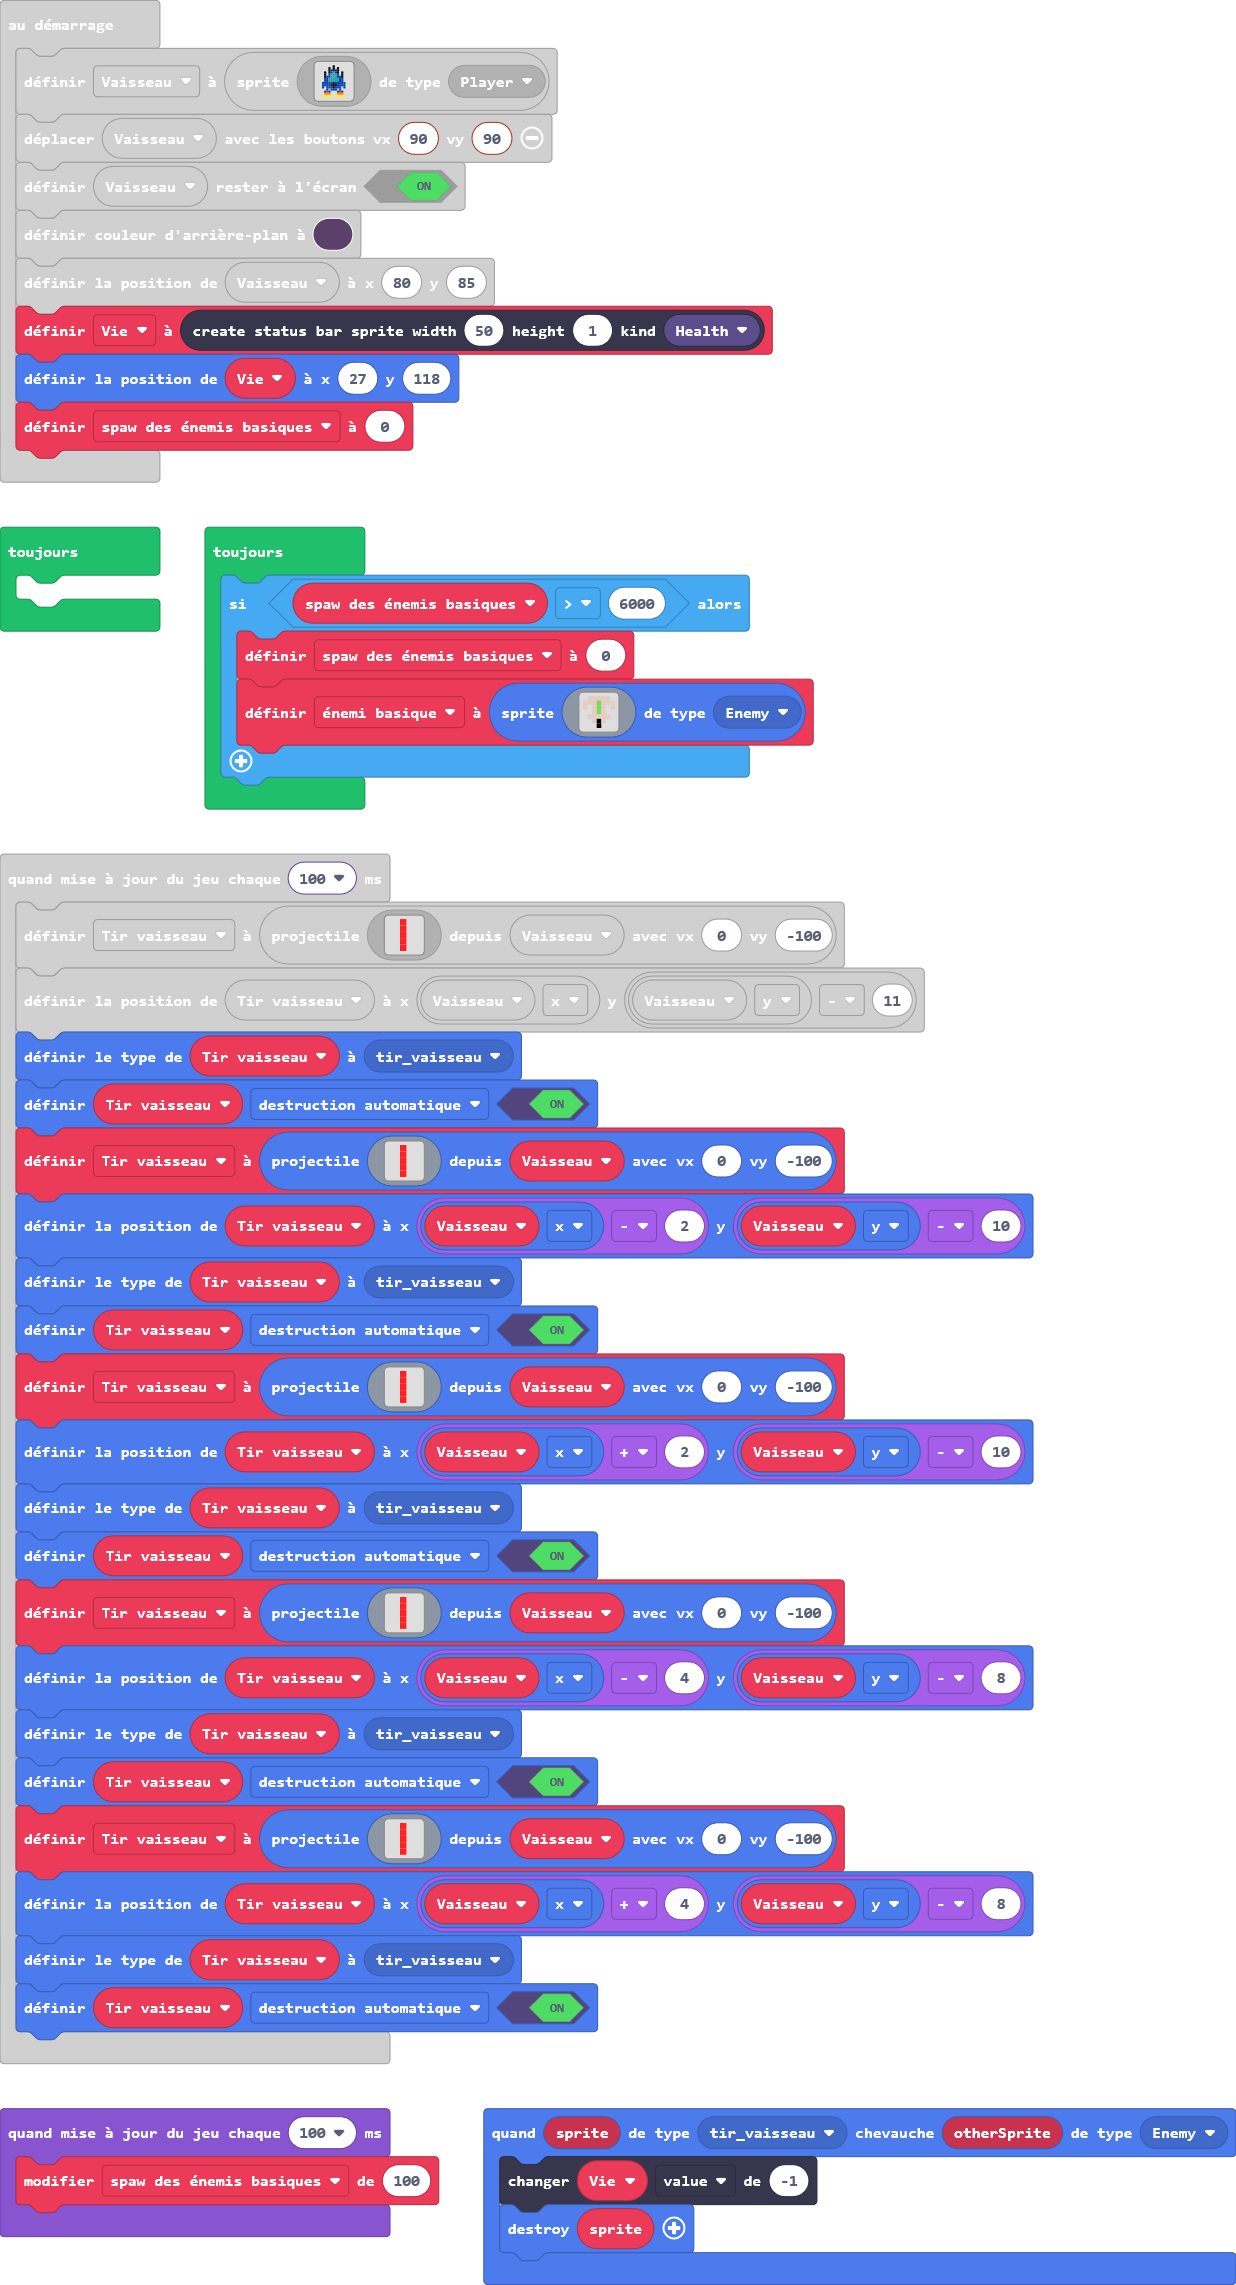
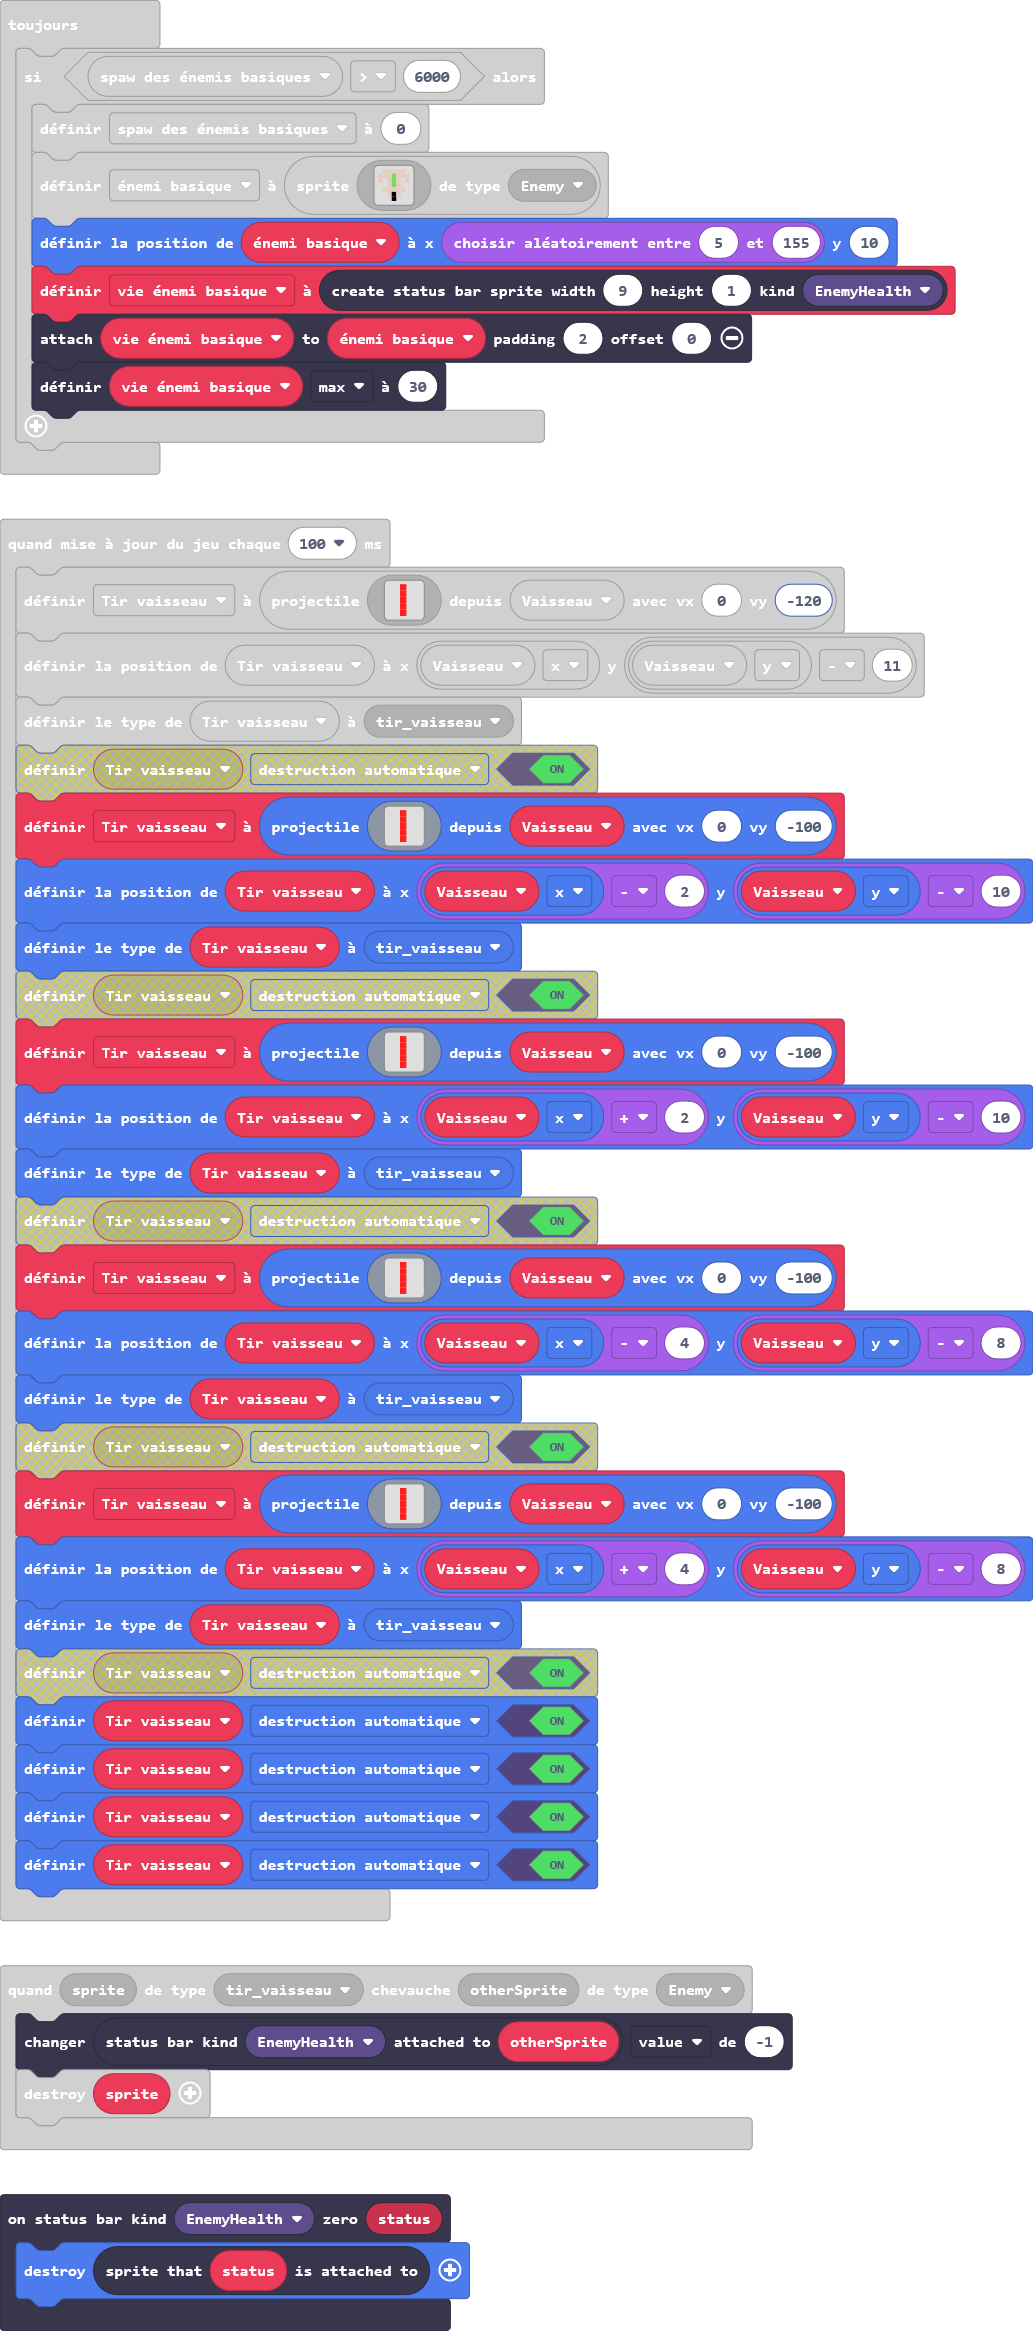
Mise à jour main.blocks, main.ts

diff --git a/main.ts b/main.ts
@@ -1,13 +1,16 @@
 namespace SpriteKind {
     export const tir_vaisseau = SpriteKind.create()
 }
+statusbars.onZero(StatusBarKind.EnemyHealth, function (status) {
+    sprites.destroy(status.spriteAttachedTo())
+})
 sprites.onOverlap(SpriteKind.tir_vaisseau, SpriteKind.Enemy, function (sprite, otherSprite) {
-    Vie.value += -1
+    statusbars.getStatusBarAttachedTo(StatusBarKind.EnemyHealth, otherSprite).value += -1
     sprites.destroy(sprite)
 })
 let Tir_vaisseau: Sprite = null
+let vie_énemi_basique: StatusBarSprite = null
 let énemi_basique: Sprite = null
-let Vie: StatusBarSprite = null
 let Vaisseau = sprites.create(img`
     . . . . . f . . . . . 
     . . . f . f . f . . . 
@@ -29,7 +32,7 @@ controller.moveSprite(Vaisseau, 90, 90)
 Vaisseau.setStayInScreen(true)
 scene.setBackgroundColor(12)
 Vaisseau.setPosition(80, 85)
-Vie = statusbars.create(50, 1, StatusBarKind.Health)
+let Vie = statusbars.create(50, 1, StatusBarKind.Health)
 Vie.setPosition(27, 118)
 let spaw_des_énemis_basiques = 0
 forever(function () {
@@ -47,6 +50,10 @@ forever(function () {
             . . d f d . . 
             . . . f . . . 
             `, SpriteKind.Enemy)
+        énemi_basique.setPosition(randint(5, 155), 10)
+        vie_énemi_basique = statusbars.create(9, 1, StatusBarKind.EnemyHealth)
+        vie_énemi_basique.attachToSprite(énemi_basique, 2, 0)
+        vie_énemi_basique.max = 30
     }
 })
 game.onUpdateInterval(100, function () {
@@ -56,50 +63,9 @@ game.onUpdateInterval(100, function () {
         2 
         2 
         2 
-        `, Vaisseau, 0, -100)
+        `, Vaisseau, 0, -120)
     Tir_vaisseau.setPosition(Vaisseau.x, Vaisseau.y - 11)
     Tir_vaisseau.setKind(SpriteKind.tir_vaisseau)
-    Tir_vaisseau.setFlag(SpriteFlag.AutoDestroy, true)
-    Tir_vaisseau = sprites.createProjectileFromSprite(img`
-        2 
-        2 
-        2 
-        2 
-        2 
-        `, Vaisseau, 0, -100)
-    Tir_vaisseau.setPosition(Vaisseau.x - 2, Vaisseau.y - 10)
-    Tir_vaisseau.setKind(SpriteKind.tir_vaisseau)
-    Tir_vaisseau.setFlag(SpriteFlag.AutoDestroy, true)
-    Tir_vaisseau = sprites.createProjectileFromSprite(img`
-        2 
-        2 
-        2 
-        2 
-        2 
-        `, Vaisseau, 0, -100)
-    Tir_vaisseau.setPosition(Vaisseau.x + 2, Vaisseau.y - 10)
-    Tir_vaisseau.setKind(SpriteKind.tir_vaisseau)
-    Tir_vaisseau.setFlag(SpriteFlag.AutoDestroy, true)
-    Tir_vaisseau = sprites.createProjectileFromSprite(img`
-        2 
-        2 
-        2 
-        2 
-        2 
-        `, Vaisseau, 0, -100)
-    Tir_vaisseau.setPosition(Vaisseau.x - 4, Vaisseau.y - 8)
-    Tir_vaisseau.setKind(SpriteKind.tir_vaisseau)
-    Tir_vaisseau.setFlag(SpriteFlag.AutoDestroy, true)
-    Tir_vaisseau = sprites.createProjectileFromSprite(img`
-        2 
-        2 
-        2 
-        2 
-        2 
-        `, Vaisseau, 0, -100)
-    Tir_vaisseau.setPosition(Vaisseau.x + 4, Vaisseau.y - 8)
-    Tir_vaisseau.setKind(SpriteKind.tir_vaisseau)
-    Tir_vaisseau.setFlag(SpriteFlag.AutoDestroy, true)
 })
 game.onUpdateInterval(100, function () {
     spaw_des_énemis_basiques += 100
